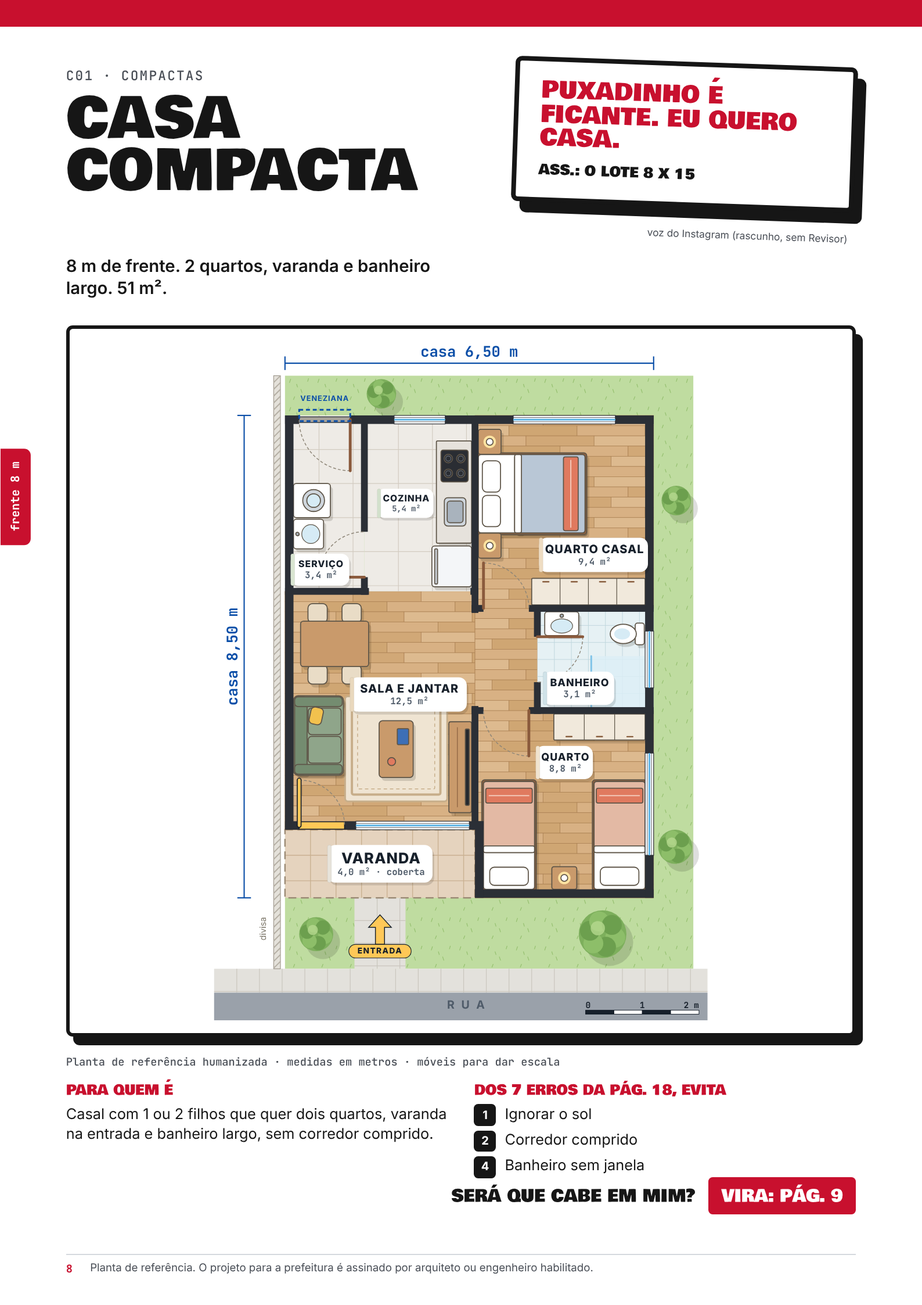
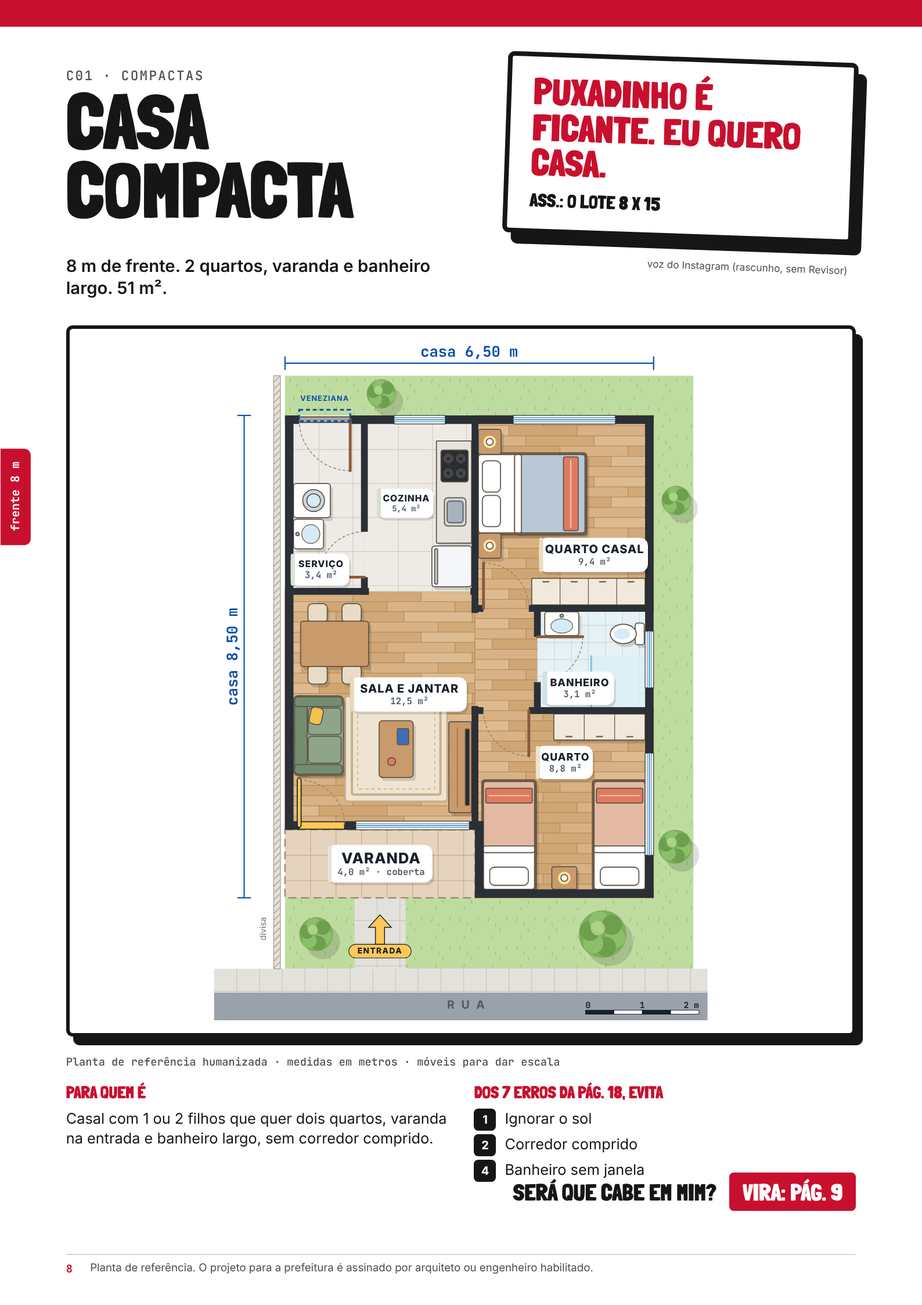
Juri mais estrito (CONSELHO 5b: 2 defeitos, piso 7, 5 fatos, prova a cada 3) e teste da segunda olhada
Claude-Session: https://claude.ai/code/session_01DYdRuF8rs2sLvVqr7VsfNR

Changed region(s): [[0.5246, 0.0312, 0.9565, 0.2182], [0.0617, 0.8103, 0.9257, 0.935], [0.0617, 0.0623, 0.4628, 0.187]]

diff --git a/pedidos/anexos/identidade-2026-11-25.md b/pedidos/anexos/identidade-2026-11-25.md
@@ -1,0 +1,173 @@
+# Identidade visual forte em tudo: diagnóstico, 3 direções e amostras (D50, 25/11/2026)
+
+> **Pedido do dono (25/11), palavra por palavra:** "o pdf está sem identidade alguma, acredito que a ultima coisa importante a se fazer antes do reset é solidificar uma identidade e deixar ela presente em tudo que criamos. Nao estava feio, estava bonito organizado mas sem chamar atencao alguma, a pessoa vai ler aquilo em 2min vai parar. Nossa geracao é a geracao dopamina". Acréscimo (ficha `2026-11-25-1623`): "nunca confie na primeira coisa que pensar".
+> **Ficha:** [`pedidos/2026-11/2026-11-25-1613-identidade-visual-forte-em-tudo-para-a-geracao-dopamina.md`](../2026-11/2026-11-25-1613-identidade-visual-forte-em-tudo-para-a-geracao-dopamina.md).
+> **Quem fez:** Designer, com a skill `design-editorial`. Diretor (MinoAI Frontier) consultado primeiro. **Nada mudou** em `ebook/gerador/`, `ebook/config.json` ou `ebook/saida/`: as amostras saíram de HTML próprio, com os SVG da planta copiados da prévia do nosso gerador. Sem OpenArt, sem foto nova.
+> **Quem decide:** o dono escolhe a direção (ou nenhuma). Mudar cor, letra ou marca é decisão dele; aqui é só opção.
+
+## 0. Plano (skill `design-editorial`)
+
+- **O que foi pedido:** identidade que se reconheça em 1 segundo e esteja em tudo; páginas que não deixem o leitor parar em 2 minutos. **O que não foi pedido:** mudar o texto, o número de páginas, o conteúdo das casas, o preço ou o título. **Suposição:** que "tudo o que criamos" inclui grátis, bônus, Instagram do X1 e WhatsApp, e não o Instagram de IA (está na ficha como suposição).
+- **Cada amostra tem:** 4 a 6 cores com papel, 2 famílias de letra mais a mono de medida que já é do projeto, um elemento memorável só (o sinal), a manchete que é conclusão ("Cabe num lote de 8 x 15 m"), o aviso "Planta de referência" em toda folha (também na capa, que hoje não tem) e a faixa que puxa a próxima página.
+- **Segunda leitura do plano:** a primeira versão das três tinha "fundo escuro + amarelo + título grande", que é igual em qualquer e-book de nicho. Refiz partindo da matéria do assunto: a **trena** (medida), a **placa de terreno** (o lote que espera) e a **porta de entrada amarela** (que já está em toda planta). Cada sinal é um objeto do mundo do comprador, não um enfeite.
+- **Pronto quando:** diagnóstico com prova, 3 direções completas, 6 PNG em 2x, recomendação, ordem de entrada no gerador e as seções "Manual" e "Onde entra" prontas para preencher.
+
+## 1. O que o Diretor (MinoAI Frontier) disse, e o que eu levei
+
+Busquei na biblioteca de aulas (retenção, primeira tela, "por que a pessoa passa para a próxima") e nos ganchos de casa e planta. A biblioteca é de vídeo curto; a passagem para página parada é **leitura minha**, marcada.
+
+| Ideia do Diretor (fonte) | O que eu levei para a página |
+|---|---|
+| "Repetitive elements of your video don't make your video boring [...] these repetitive elements help you brand your videos memorably" (Content Academy SOP, documento sem link) e "retention captions, always branding is very good. So I would probably keep that" ([chamada de 07/12/2025](https://www.loom.com/share/a40a144abf2146b0a8b44305dfc38ead)) | Um **sinal só, repetido em toda folha, no mesmo lugar**. Hoje o sinal (a fita) só existe na capa e na última página. |
+| O vídeo que funciona "captures attention, retains attention, and delivers value" ([aula "5. How Social Media Sales Work"](https://whop.com/joined/contentacademy/content-bootcamp-3pqyjhwaG9gmeC/app/courses/cors_7pWrAMvSU9J9TvKJP0c8tK/lessons/lesn_6XUFgqqwfDJ5yO2BaikZEh/)); "re-hooking loops" ao longo do vídeo ([chamada de 28/07/2026](https://www.loom.com/share/c25e1e65c2cf427193ea2bb1d147b490?t=2174s)); "there's actually seven parts of..." como re-gancho ([chamada de 11/11/2025](https://www.loom.com/share/991211e6490344b283941f4204a7b8df)) | Leitura minha: **cada folha termina puxando a próxima** com a manchete da próxima página em forma de pergunta e o número da página ("Próxima medida: cabe num lote de 8 x 15 m? pág. 9"). É o re-gancho do livro. |
+| "Prioritize clarity over mystery [...] Curiosity should come from withholding the payoff, not from making the premise unclear"; "Make sure it's HIGHLY CONTRASTED and easy to read"; "Do not overload the screen with too much text or 2+ different fonts" ("Mastering Viral Text Hooks", módulo sem link) | A pergunta do pé é clara (diz o assunto) e guarda só a resposta. Duas famílias de letra por direção, mais a mono de medida. Contraste conferido (seção 3). |
+| "contrast is what really makes things like hit with people" e o antes e depois ([chamada de 21/07/2026](https://www.loom.com/share/47d91f75f07d444cb232cdf4b80e75a1?t=2288s)) | Um **número gigante** por página (só do validador) e contraste forte de fundo. |
+| "just make the text bigger [...] the more brain-rotted viewer needs like more things changing on screen to keep them captivated" ([chamada de 21/07/2026](https://www.loom.com/share/47d91f75f07d444cb232cdf4b80e75a1?t=3307s)) | O que tem de ser lido sem dar zoom no celular tem de ter 26 pt ou mais (seção 2, prova). |
+| Cuidado: o que é muito diferente do que a pessoa conhece "can, like, actually scare viewers away" ([chamada de 14/10/2025](https://www.loom.com/share/ab655e212ed342ef8d450c894c89fd89)) | O sinal vem de objeto conhecido (trena, placa, porta), não de estilo estranho. |
+| Ganchos de casa mais perto: [@meshtimes](https://www.instagram.com/p/DHRtCjmSDrM/), "the place i rented vs. the home i'm making" (o vazio que vira casa); [@buildwithbert](https://www.instagram.com/p/DbXB9latjHl/), "PT.35 House update" no topo (série numerada, abertura fixa) | Direção 2 (o lote vazio que procura casa) e o número da casa sempre no mesmo canto. |
+
+## 2. Diagnóstico: por que o leitor larga em 2 minutos
+
+Prévia gerada em 25/11 (`python3 ebook/gerador/livro.py --previa <scratchpad> --duas-partes`): 24 páginas, 3 casas (E03 pág. 4, C01 pág. 8, F01 pág. 12; casas em geral a partir da 16), sem página estourada.
+
+**A prova principal é de tamanho, não de cor.** O e-book é A4 e o público lê no celular ([`MERCADO.md`](../../ebook/referencias/MERCADO.md)). A página A4 inteira numa tela de uns 390 px de largura sai a cerca de metade do tamanho de tela da prévia (794 px). Pelo `livro.css`: texto do miolo 10,2 pt (linha 9) vira uns 6,7 px; "Atenção" 8,6 pt (linha 130) e a ficha 8,4 pt (linha 98) viram uns 5,6 px; só o título da página, 26 pt (linha 15), chega a uns 17 px. **Conta minha, a partir do CSS; conferi olhando as páginas reduzidas a 390 px** (`celular-hoje.png`, no scratchpad): na página da C01 só "Casa Compacta" se lê sem zoom. Ou seja, no primeiro segundo de cada página o leitor só recebe o título, e o título de toda página tem a mesma cara.
+
+| Página | O que se vê | O que falta |
+|---|---|---|
+| 1, capa | A melhor página: fundo azul, planta, fita com 5, 8 e 10 m. | Sem aviso "Planta de referência". A fita aparece aqui e só volta na 24: o sinal não se repete. Números da fita em 13 pt mono: pequenos para o que é o assunto do livro. |
+| 2, Como usar | 3 passos, sumário e uma caixa amarela grande de aviso legal. | A primeira página depois da capa é manual de instrução e aviso. Nenhuma imagem, nenhum número grande, nenhum gancho. É aqui que a curva cai. |
+| 3, Qual casa cabe | 3 lotes lado a lado com a casa dentro. A manchete é pergunta (bom). | As 3 plantas ficam pequenas e as medidas (5, 8, 10 m) em selo de 9 pt. O melhor momento do livro ("a minha é esta") não tem número gigante. |
+| 4, 8, 12, planta da casa | Planta grande, bonita. | As 3 páginas são iguais: mesmo título azul, mesmo selo cinza. Nenhuma surpresa entre uma casa e outra; o "51 m²" está no meio da frase de 14 pt. Nada puxa a página seguinte. |
+| 5, 9, 13, a casa no lote | Ficha "Informação da casa", atenção, vista da rua, 3D, "por que", "para quem", "leve". | 9 blocos numa folha, letra de 8 a 10 pt. A imagem que mais encanta (a casa em 3D) tem uns 85 x 55 mm. No celular é uma parede cinza. |
+| 6, 7, 10, 11, 14, 15, cômodo a cômodo | 7 a 8 cartões de texto com círculo amarelo numerado. | Texto corrido em duas colunas, 9 a 10 pt, sem respiro. Por volta da página 6 o leitor está nos 2 minutos e encontra a página mais densa. |
+| 16 a 23, casas em geral | Como ler, glossário, 7 erros, recuos, parede, ficha do terreno, do e-book à chave. | Mesmo título azul, mesma faixa cinza no topo; 2 fotos ilustrativas só na 22 e na 23. Nenhuma página de número só, nenhuma pergunta que leve à próxima. |
+| 24, Agora é com você | Foto e a fita de volta. | Bom fecho; o sinal voltar só aqui mostra que ele sumiu no meio. |
+
+**Em uma frase:** o livro é organizado (cada coisa no lugar), mas toda folha tem a mesma densidade, o mesmo título azul de 26 pt e nada no pé; não há sinal próprio repetido, número gigante, página de respiro nem convite para a próxima página. O tema existe (azul, amarelo, quadriculado, Bricolage, Inter); a marca não.
+
+### Segunda olhada (diagnóstico)
+
+1. **Primeira ideia:** falta cor e contraste; o azul e o branco são "educados" demais.
+2. **Alternativa:** o problema é de tamanho e ritmo no celular, não de cor: a mesma página com mais cor continuaria ilegível a 390 px.
+3. **O que provaria que a primeira está errada:** se, reduzida ao tamanho do celular, uma página de cor forte ainda mostrasse só o título; e se as páginas mais densas fossem justamente as que já têm mais cor (a 5, com amarelo e verde).
+4. **O que a conferência mostrou:** com as amostras e a prévia lado a lado a 390 px, a planta ocupa uns 60% da página nas 4 versões, e o que diferencia uma da outra é só o que fica acima e abaixo dela (faixa do topo, número, tira do pé). **Mudou o diagnóstico:** a causa número 1 passou a ser tamanho e ritmo; cor vem depois. E mudou o trabalho do reset: a identidade tem de morar no topo, no pé e nas páginas sem planta, porque no miolo da casa quem manda é a planta.
+
+## 3. As 3 direções
+
+Contraste calculado pela fórmula da WCAG (texto pequeno pede 4,5:1; título grande, 3:1).
+
+### Direção 1: A Trena ("a medida manda")
+
+- **Ideia em 1 frase:** toda página abre com uma medida verdadeira marcada na trena, e a trena é a arma do comprador contra o chute.
+- **Sinal próprio:** a **trena amarela com o risco vermelho de lápis** na medida daquela página (na capa, 5, 8 e 10 m na escala certa; na casa, "frente 8 m"). Está no topo de toda folha, sempre no mesmo lugar.
+- **Cores:** obra `#141414` (fundo da capa, texto); trena `#FFC857` (já é nossa); risco `#D0281C` (só o risco e o número da página); azul de projeto `#0B4FA8` (nome da casa, cotas); papel `#FFFFFF`; cinza `#4A4F57` (legenda). Contraste: branco no obra 18,4:1; trena com obra 12,0:1; azul no branco 7,8:1; risco no branco 5,2:1; cinza no branco 8,2:1. (O vermelho que usei primeiro, `#E5322D`, dava 4,4:1 e foi escurecido.)
+- **Letras:** Big Shoulders Display 900 (Google Fonts, OFL, uso comercial livre) nos títulos e números gigantes; Inter no texto; JetBrains Mono nas medidas (as duas já são do projeto).
+- **Ritmo de página:** topo, a trena com o risco; logo abaixo, **um número gigante** do validador (51 m², 8 m, 4% de corredor); meio, a planta ou a figura; pé, a tira preta "**Próxima medida:** [manchete da próxima página]? pág. N". A cada capítulo, uma página de respiro com um número só.
+- **Voz:** curta e de medida: "Meça. Compare. Leve ao engenheiro." Sem piada no PDF; o humor fica no Instagram.
+- **Onde aparece:** **e-book**, trena no topo de toda folha e capa com a trena grande; **grátis** (planta da C01), a mesma capa com só o risco de 8 m e as outras duas medidas apagadas ("estão no e-book"); **bônus**, a trena vira a barra de progresso do checklist (uma fase por trecho da trena); **Instagram**, a trena no pé de todo post, com o risco na medida do lote; o Lote Carente briga com o "dá uns 8" e a trena prova "eu tenho 8,00" (seção 5 do [anexo do Instagram](instagram-identidade-lote-carente-2026-11-24.md)); **WhatsApp**, foto de perfil com a trena e o risco, e o catálogo com o mesmo topo. O texto da mensagem é do Redator, pela skill `oferta-e-whatsapp`.
+
+### Direção 2: A Placa ("o Lote Carente fala")
+
+- **Ideia em 1 frase:** quem conta o e-book é o lote que procura casa, numa placa de terreno pintada à mão; os dados continuam sérios.
+- **Sinal próprio:** a **placa branca de borda preta grossa, letra vermelha, fincada em duas estacas** ("Procura-se casa"). Em cada página, uma plaquinha com a fala do lote.
+- **Cores:** tinta `#161616`; vermelho-placa `#C8102E`; amarelo `#FFC857` (fundo da capa); branco `#FFFFFF`; terra `#C9A56B`; mato `#3E8E41`; azul `#0B4FA8` só na planta. Contraste: tinta no amarelo 11,8:1; vermelho no branco 5,9:1; branco no vermelho 5,9:1; tinta na terra 7,8:1.
+- **Letras:** Londrina Solid 900 (Google Fonts, OFL; desenhada no Brasil, a partir dos cartazes de rua de São Paulo, segundo o [levantamento de 24/11](letras-com-identidade-2026-11-24.md)); Inter; JetBrains Mono.
+- **Ritmo de página:** topo, a plaquinha com a fala do lote (gancho); meio, a planta; pé, a pergunta dele: "Será que cabe em mim? Vira: pág. 9". Entre capítulos, uma placa grande de respiro.
+- **Voz:** a do personagem (seção 1 do anexo do Instagram), **só nas placas**. Nunca no aviso, na ficha, nos números nem no que o engenheiro confere.
+- **Onde aparece:** **e-book**, placa no topo das páginas de casa e de capítulo; **grátis**, a placa da capa diz "Lote de 8 x 15. Procura-se casa"; **bônus**, o checklist vira "o que o lote pede antes do tijolo"; **Instagram**, é a mesma identidade do @lotecarente (posts são placas); **WhatsApp**, foto de perfil com a placa.
+- **Riscos:** humor em produto pago pode tirar seriedade; as falas são rascunho e **não passaram pelo Revisor**; o Redator teria de escrever cerca de 24 falas mais as do bônus.
+
+### Direção 3: A Porta Acesa ("a casa à noite")
+
+- **Ideia em 1 frase:** o e-book é lido no escuro do celular, e a casa acende: a porta de entrada amarela, que já está em toda planta, vira a marca.
+- **Sinal próprio:** a **porta amarela acesa, com a luz caindo no chão** (ícone desenhado por nós). Abre cada página, marca cada item e fecha a página ("Abra a porta: ... pág. 9").
+- **Cores:** noite `#0A1630` (fundo); branco `#F4F7FB` (texto); porta `#FFC857` (número e sinal); névoa `#A9B6CC` (texto de apoio); linha `#6FA8FF` (fio da planta). Contraste: branco na noite 16,7:1; porta na noite 11,7:1; névoa na noite 8,8:1. **O azul de projeto na noite dá 2,3:1**: ele só entra dentro do cartão branco da planta.
+- **Letras:** Bricolage Grotesque 800 (a de hoje; Google Fonts, OFL), Inter, JetBrains Mono. É a que menos muda.
+- **Ritmo de página:** topo, a porta com o código da casa; número gigante amarelo aceso; meio, a planta num cartão branco; pé, "Abra a porta: [próxima manchete]? pág. N". Respiro: página escura só com a planta acesa.
+- **Voz:** calma, de sonho e segurança: a casa que vira endereço.
+- **Onde aparece:** **e-book**, fundo escuro em tudo; **grátis**, a capa escura com a porta da C01 acesa; **bônus**, cada fase do checklist marcada com uma porta que acende; **Instagram**, posts de noite com a porta acesa, e o Lote Carente sonha "ser endereço, luz acesa" (seção 1 do anexo); **WhatsApp**, foto de perfil com a porta acesa.
+- **Riscos:** gasta muita tinta se o comprador imprimir para o engenheiro (pediria uma versão clara para imprimir); a planta precisa do cartão branco; tem menos humor que o Instagram.
+
+## 4. As amostras
+
+Capa e página da planta da Casa Compacta (C01, pág. 8 da prévia), com o texto real da prévia; os SVG da planta são os do nosso gerador, sem mudar porta ou janela. Na direção 3, o brilho é desenhado por cima da entrada, sem mexer na planta. PNG em 2x (1588 x 2246):
+
+- Direção 1: [`ebook/visual/identidade/direcao-1-capa.png`](../../ebook/visual/identidade/direcao-1-capa.png) · [`direcao-1-casa-c01.png`](../../ebook/visual/identidade/direcao-1-casa-c01.png)
+- Direção 2: [`direcao-2-capa.png`](../../ebook/visual/identidade/direcao-2-capa.png) · [`direcao-2-casa-c01.png`](../../ebook/visual/identidade/direcao-2-casa-c01.png)
+- Direção 3: [`direcao-3-capa.png`](../../ebook/visual/identidade/direcao-3-capa.png) · [`direcao-3-casa-c01.png`](../../ebook/visual/identidade/direcao-3-casa-c01.png)
+
+**Texto que não é da prévia (marcado):** a fala "Lote de 8 x 15 / Procura-se casa / Ass.: o Lote" (amostra de voz, escrita por mim, ainda sem o Redator) e "Puxadinho é ficante. Eu quero casa." (bio 1 do anexo do Instagram, rascunho sem Revisor), as duas só na direção 2 e com aviso na própria arte; "A frente do seu lote / meça de uma divisa à outra" e "Puxe a trena: a frente do lote diz a página" (direção 1); as tiras do pé ("Próxima medida", "Vira", "Abra a porta") repetem a manchete real da pág. 9. Nenhum número novo: 51 m², 56 m², 71 m², 2 e 3 quartos, 5, 8 e 10 m e as páginas vêm da prévia.
+
+**As cinco perguntas, depois de olhar cada folha:**
+
+1. **Dá para entender só pela manchete?** Sim nas 6. Na capa, "Qual casa cabe no seu lote?" e as 3 medidas; na casa, nome, número e "8 m de frente".
+2. **Algum vão parece erro?** Não depois do refino: na 1ª versão da direção 1 havia uma faixa vazia entre o cabeçalho e a planta (planta subiu e cresceu) e, na direção 2, as estacas passavam pelo chão (cortadas).
+3. **Algo cortado, sobreposto ou com pouco contraste?** O detector das amostras não achou nada fora da folha. Corrigidos: o "10 m" que quebrava linha na trena da direção 1; o vermelho de 4,4:1; a nota "voz do Instagram" que ficava sob a sombra da placa. **Ainda pequeno no celular, nas 3:** "Para quem é" e a legenda da planta (9,5 e 7 pt), como hoje. A planta e o aviso legal não mudaram de tamanho.
+4. **Todas parecem da mesma família?** Dentro de cada direção, sim: capa e página repetem o sinal. Entre as direções, são bem diferentes.
+5. **A capa funciona sozinha, como cartaz?** A 1 e a 2, sim (trena gigante; placa gigante). A 3 depende do brilho da porta, que no tamanho do celular é discreto.
+
+**Vícios conferidos:** nenhum cartão igual enfileirado nem palavra destacada sem motivo. O "51 m²" aparece duas vezes na página da casa (número gigante e frase do gancho, que é o texto real): no reset, o gancho pode tirar o número. Os selos "C01 · COMPACTAS" com ponto no meio são os de hoje. Tirei um acessório em cada uma (a sombra de texto da direção 2, a moldura da planta escura da direção 1, a lista "56 m² · 2 quartos" da direção 3).
+
+**O que não conferi:** acentos de todas as letras (vi ã, ç, é e ² renderizados nas amostras); a cara das páginas de texto (cômodo a cômodo, glossário) em cada direção; o tamanho do PDF com fundo escuro (direção 3); impressão em papel.
+
+## 5. Recomendação
+
+**Direção 1, A Trena.** Por quê:
+
+1. **O sinal é o produto.** O comprador compra "a casa que cabe na minha medida"; a trena com o risco diz isso em 1 segundo, sem texto. Já é decisão do dono na capa ("capa com fita métrica"): a recomendação só a leva para toda folha.
+2. **Conversa com o Lote Carente sem pôr piada no PDF:** a briga do personagem é com o chute ("dá uns 8" / "eu tenho 8,00"), e a trena é a prova. No Instagram o lote fala; no e-book a trena mede.
+3. **O número gigante é a dose de dopamina honesta:** sempre do validador, nunca inventado, e é o que se lê no celular sem zoom.
+4. **É o reset mais braçal:** troca de tokens, uma fonte a mais e três peças (trena de topo, número gigante, tira do pé) no `livro.css` e no `livro.py`. Não muda texto de casa.
+
+### Segunda olhada (recomendação)
+
+1. **Primeira ideia:** Direção 1, a Trena.
+2. **Alternativa:** Direção 2, a Placa: é a que mais combina com o Instagram que o dono escolheu ("lote carente foi a melhor opcao") e com o que ele disse em 24/11, "coisas absurdas prendem a atenção".
+3. **O que provaria que a primeira está errada:** se, no tamanho do celular, a direção 1 parecesse "aviso de obra" genérico (preto e amarelo de canteiro), ou se o critério do absurdo de 24/11 valesse também para o PDF, e não só para o Instagram.
+4. **O que a conferência mostrou:** as 6 amostras lado a lado a 390 px de largura (`celular.png`, no scratchpad). O "51 m²" e a trena da direção 1 se leem de cara; o preto e amarelo chega perto do cliché de obra, e o que segura é o risco vermelho e a escala de verdade. A direção 2 é a única que faz sorrir, mas na 1ª versão a fala da placa **sumia no celular**. **Mudou:** troquei a letra da direção 2 para a Londrina Solid (brasileira, do levantamento de 24/11) e aumentei a placa em cerca de 50%; a recomendação continua a 1, agora com uma pergunta ao dono (abaixo) em vez de decidir sozinho o humor no PDF.
+
+## 6. Ordem de entrada no gerador (para o reset ser braçal)
+
+Vale para a direção 1; as outras mudam os valores, não a ordem. Linhas lidas em 25/11.
+
+1. `ebook/gerador/livro.css`, linha 1 (`@import`): somar `Big+Shoulders+Display:wght@800;900`.
+2. `livro.css`, linhas 4 a 6 (`:root`): somar `--obra: #141414`, `--risco: #D0281C`, `--num: "Big Shoulders Display"`; `--cinza` passa a `#4A4F57`.
+3. `livro.css`, linha 15 (`h2`): letra nova, caixa alta, 36 a 40 pt.
+4. `livro.css`, linhas 34 a 48 (capa, `.capa-titulo`, `.fita-box`, `.marca`): fundo obra, título 84 pt, trena de 62 mm, marcas de 42 pt alinhadas no risco; linha 173 (`.fita-box.pequena`) igual. E `livro.py`, linha 988 (`capa_fundo()`): sai o papel azul de foto, entra o fundo obra.
+5. `ebook/gerador/livro.py`, linhas 875 a 902 (`svg_fita`): escala proporcional (0 a 13 m), riscos vermelhos, rótulo "A frente do seu lote"; mais uma variante fina, a trena de topo, para toda folha.
+6. `livro.py`, linha 1038 (`L.pagina`): parâmetro novo para a trena de topo (com o risco em `lote_frente(p)`, linha 1082) e para a tira do pé "Próxima medida", que usa a manchete da página seguinte (as 2 passadas da linha 2720 já sabem os números).
+7. `livro.py`, linhas 2588 a 2600 (`dupla`, página da planta) e `livro.css`, linhas 83 a 90 (`.cab`, `.nome`, `.gancho`, `.planta-grande`): número gigante ao lado do nome (a área fechada que a ficha já usa).
+8. `livro.css`, linhas 28, 31 e 32 (`.rodape`, `.orelha`): número da página no risco, orelha com borda obra; linha 179 (`.orelha.geral`) igual.
+9. Bônus: `livro.css`, linha 325 em diante (`.bn`), e `ebook/gerador/bonus.py`, linha 155 (cores `AZ`, `TI`, `CL`, `AM`): trena como barra de progresso.
+10. Grátis: `livro.py`, linha 2650 (`montar_gratis`): a capa com só o risco de 8 m.
+11. Instagram: `ferramentas/imagens2d.py`, linhas 37 e 40 (fundo `.azul`, `h1` azul): a trena no pé de todo post.
+12. Depois de aplicar: `ebook/referencias/VISUAL.md`, seção 2, e o "Identidade fixa" da skill `design-editorial` (Designer); prévia, as cinco perguntas e `ferramentas/checar.py`.
+
+## 7. Manual (preencher depois da escolha do dono)
+
+- **Direção escolhida:** (a preencher)
+- **Tokens:** cores com hex e papel; letras e tamanhos (capa, título, número gigante, texto, legenda, medida): (a preencher)
+- **O sinal:** medidas, posição fixa, distância mínima, o que nunca encosta nele: (a preencher)
+- **Ritmo de página:** topo, número, meio, pé; quando entra a página de respiro: (a preencher)
+- **Voz:** (a preencher, com o Redator)
+- **Faça:** (a preencher)
+- **Não faça:** (a preencher; já valem: o aviso "Planta de referência" e o selo "Imagem ilustrativa" nunca saem; número só do validador; nenhuma fonte, tema ou arte de terceiros)
+
+## 8. Onde entra, arquivo por arquivo (preencher depois da escolha do dono)
+
+| Onde | Arquivo e linha | O que muda | Feito |
+|---|---|---|---|
+| E-book (PDF) | (a preencher a partir da seção 6) | | |
+| Planta grátis | | | |
+| Bônus | | | |
+| Instagram do X1 | | | |
+| WhatsApp (perfil e catálogo) | | | |
+| Animação e vídeo (Editor de vídeo, depois do e-book) | | | |
+
+## 9. O que só o dono decide
+
+1. **Qual direção:** 1 (Trena), 2 (Placa), 3 (Porta acesa) ou nenhuma.
+2. **O humor do Lote Carente entra no PDF?** (a) não, só no Instagram; (b) sim, uma placa com a fala do lote por página de casa, sobre a direção escolhida (o Redator escreve e o Revisor confere); (c) sim, o livro todo na voz dele (direção 2).
+3. **A letra nova:** Big Shoulders Display (direção 1), Londrina Solid (direção 2) ou continuar na Bricolage (direção 3).
+4. **Capa escura ou clara?** A recomendada é escura; quem imprime para o engenheiro gasta mais tinta na capa (no miolo, a direção 1 é branca).
+5. **"Tudo o que criamos" inclui o WhatsApp e o Instagram de IA?** (suposição da ficha: inclui WhatsApp, não inclui o Instagram de IA).

diff --git a/CONSELHO.md b/CONSELHO.md
@@ -52,11 +52,11 @@ Cada membro responde em **uma linha**, sempre no mesmo formato:
 
 Para decisão grande (custa dinheiro, vai ao público ou muda o sistema inteiro) ou quando o dono pedir. Método de Andrej Karpathy (`github.com/karpathy/llm-council`; o repositório não tem licença, então entra só o método, nada do código). Ficha de origem: `pedidos/2026-11/2026-11-23-0156-adicionar-o-llm-council-karpathy-e-pedir-a-opiniao-dele-sobr.md`.
 0. **Régua com âncoras** (dono, 23/11/2026, rodada 7): toda rodada leva a mesma régua com o que vale 3, 6 e 9 de 10, cada um com um exemplo do projeto. Sem régua escrita no pedido, a rodada não começa.
-1. **Opiniões separadas, cada uma por um ângulo:** 3 modelos (Haiku, Sonnet, Opus ou Fable) opinam sem ver os outros, com nota de 0 a 10. Cada jurado recebe um ângulo diferente (comprador, dinheiro, risco), não a mesma pergunta. **Toda crítica cita arquivo e linha**; crítica sem isso não conta.
+1. **Opiniões separadas, cada uma por um ângulo:** 3 modelos (Haiku, Sonnet, Opus ou Fable) opinam sem ver os outros, com nota de 0 a 10. Cada jurado recebe um ângulo diferente (comprador, dinheiro, risco), não a mesma pergunta. **Toda crítica cita arquivo e linha**; crítica sem isso não conta. **Defeito obrigatório** (dono, 25/11/2026, ficha `2026-11-25-1625`): cada jurado aponta pelo menos 2 defeitos, com arquivo e linha, antes de dar a nota; "está ótimo" sem prova não conta.
 2. **Revisão anônima:** cada um lê as outras opiniões sem saber de quem são e as ordena.
-3. **Presidente:** o 4º modelo, que **não opinou** nesta rodada (rodízio), **confere no repositório pelo menos 3 fatos** que os jurados afirmam (diz quais se confirmaram e quais não), escreve a síntese e o que corrigir já.
-4. **No máximo 2 rodadas** (dono, 23/11/2026): reescreve-se a proposta uma vez; se a nota não chegar a 8,5, a decisão vai ao dono com as duas notas. Antes, o laço ia até 6 rodadas e em 23/11 caiu três vezes seguidas (6,5, 6,3, 6,0).
-5. **Calibrar:** a cada 5 rodadas, uma prova com erro plantado (`pedidos/PROVAS.md`); e a nota do júri é comparada depois com o resultado real (custo por venda, `PAINEL.md` seção 4). Júri que dá nota alta para o que não vende perde peso.
+3. **Presidente:** o 4º modelo, que **não opinou** nesta rodada (rodízio), **confere no repositório pelo menos 5 fatos** que os jurados afirmam (diz quais se confirmaram e quais não; dono, 25/11/2026: eram 3). **Jurado que afirmou um fato falso perde a nota daquela rodada**, escreve a síntese e o que corrigir já.
+4. **No máximo 2 rodadas** (dono, 23/11/2026): reescreve-se a proposta uma vez; se a nota não chegar a 8,5, a decisão vai ao dono com as duas notas. **Piso por jurado** (dono, 25/11/2026): se qualquer jurado der menos de 7, a peça não passa, mesmo com a média em 8,5 ou mais. Antes, o laço ia até 6 rodadas e em 23/11 caiu três vezes seguidas (6,5, 6,3, 6,0).
+5. **Calibrar:** a cada 3 rodadas (dono, 25/11/2026: eram 5), uma prova com erro plantado (`pedidos/PROVAS.md`); **o jurado que não pegar o erro perde peso** nas 3 rodadas seguintes; e a nota do júri é comparada depois com o resultado real (custo por venda, `PAINEL.md` seção 4). Júri que dá nota alta para o que não vende perde peso.
 
 **Custo:** caro (o laço de 23/11, rodadas 3 a 5, gastou cerca de 2,95 milhões de tokens de subagentes): só com o motivo escrito na ficha.
 

diff --git a/contexto/QUADRO.md b/contexto/QUADRO.md
@@ -2,6 +2,12 @@
 
 > **Todo agente e toda conversa lê este quadro antes de trabalhar** (regra do dono, 22/11/2026: "depois de cada pedido, SEMPRE informe todo mundo do que está acontecendo, crie um contexto a partir disso e alimente todos"). Quem atende o pedido escreve aqui, no topo, e apaga o mais antigo: ficam os 5 últimos. O histórico inteiro está em [`CONTEXTO-HISTORICO.md`](../CONTEXTO-HISTORICO.md).
 
+## 25/11 · Júri mais estrito e a segunda olhada (fichas `2026-11-25-1625` e `2026-11-25-1623`)
+
+- **O dono pediu:** "Queria testar algo no nosso sistema também, 'nunca confie na primeira coisa que pensar' o que acha?" ("sim" ao teste); "Também gostaria que o juri fosse mais stricit é possivel?" ("sim, gostei das regras").
+- **O que mudou:** `CONSELHO.md` 5b: cada jurado aponta 2 defeitos com arquivo e linha antes da nota; qualquer nota abaixo de 7 reprova; o presidente confere 5 fatos e quem afirmou fato falso perde a nota; prova com erro plantado a cada 3 rodadas e quem não pegar perde peso. Máximo de 2 rodadas mantido. **Teste de 3 fichas da segunda olhada:** antes de número, frase ao público, comando que grava ou apaga, ou gasto, a ficha tem "Segunda olhada" (primeira ideia, alternativa, o que provaria o erro, o que a conferência mostrou).
+- **Todos:** escrevam a segunda olhada nesses 4 casos. **Jurados:** sem 2 defeitos com prova, a nota não conta. **Supervisor:** confere a contagem da segunda olhada na próxima auditoria. **Designer:** a D50 é a primeira ficha do teste.
+
 ## 25/11 · Identidade visual forte em tudo, antes do reset (ficha `2026-11-25-1613`)
 
 - **O dono pediu:** "o pdf está sem identidade alguma, acredito que a ultima coisa importante a se fazer antes do reset é solidificar uma identidade e deixar ela presente em tudo que criamos. Nao estava feio, estava bonito organizado mas sem chamar atencao alguma, a pessoa vai ler aquilo em 2min vai parar. Nossa geracao é a geracao dopamina".
@@ -25,9 +31,3 @@
 - **O dono pediu:** "O redator sempre com a ajuda do planejador, quero todo mundo planejando as coisas muito bem".
 - **O que mudou:** todo texto do Redator começa por um plano (para quem, o que precisa conter, fonte de cada número, o que depende do dono, "pronto quando"), montado ou conferido pelo Planejador; texto sem plano não vai ao Revisor. Convivência, linha 17.
 - **Todos:** plano curto antes de fazer; trabalho com mais de 3 passos passa pelo Planejador. **Redator:** plano no começo do anexo. **Planejador:** monta ou confere o plano de cada texto. **Maestro:** manda o plano junto do pedido ao Redator.
-
-## 24/11 · Terminar o e-book, um por um (ficha `2026-11-24-2050`)
-
-- **O dono pediu:** "Quero terminar o ebook o que falta. Falta uma separacao exata do que estamos trabalhando e vamos implementar pro cliente, temos que terminar tudo 1 por 1 comecando pelo E book".
-- **O que mudou:** existe a separação em `pedidos/anexos/o-que-vai-ao-cliente-2026-11-24.md`: o que o cliente recebe, o que é só ferramenta nossa, e os 10 passos que faltam para o e-book.
-- **Todos:** só se trabalha nos 10 passos do e-book, na ordem, um por vez. Sistema, Instagram, vitrines e vídeo esperam. **Planejador:** a ordem do topo do plano segue essa tabela.

diff --git a/contexto/RESUMO.md b/contexto/RESUMO.md
@@ -47,9 +47,9 @@ Tamanho: 442 palavras.
 
 Todo agente e toda conversa lê este quadro antes de trabalhar (regra do dono, 22/11/2026: "depois de cada pedido, SEMPRE informe todo mundo do que está acontecendo, crie um contexto a partir disso e alimente todos"). Quem atende o pedido escreve aqui, no topo, e apaga o mais antigo: ficam os 5…
 
-Seções: 25/11 · Identidade visual forte em tudo, antes do reset (ficha `2026-11-25-1613`); 25/11 · Tudo pronto para o reset; Instagram de IA com repositório próprio (ficha `2026-11-25-1612`); 24/11 · O e-book mostra a dor e dá a solução (ficha `2026-11-24-2130`); 24/11 · Redator sempre com o Planejador; todos planejam antes de fazer (ficha `2026-11-24-2119`); 24/11 · Terminar o e-book, um por um (ficha `2026-11-24-2050`).
+Seções: 25/11 · Júri mais estrito e a segunda olhada (fichas `2026-11-25-1625` e `2026-11-25-1623`); 25/11 · Identidade visual forte em tudo, antes do reset (ficha `2026-11-25-1613`); 25/11 · Tudo pronto para o reset; Instagram de IA com repositório próprio (ficha `2026-11-25-1612`); 24/11 · O e-book mostra a dor e dá a solução (ficha `2026-11-24-2130`); 24/11 · Redator sempre com o Planejador; todos planejam antes de fazer (ficha `2026-11-24-2119`).
 
-Tamanho: 746 palavras.
+Tamanho: 824 palavras.
 
 ### [Contexto do Ajudante](ajudante.md)
 

diff --git a/RESUMO-RAIZ.md b/RESUMO-RAIZ.md
@@ -33,7 +33,7 @@ Lido por toda sessão via `CLAUDE.md`. Para rodar: a skill `conselho` (`/conselh
 
 Seções: 1. Por que existe; 2. Os membros; 3. Como uma opinião é dada; 4. Como se decide; 5. Conselho de bolso x conselho completo; 5b. Modo júri (método do llm-council, 23/11/2026); 6. Skill ou agente novo: o roteiro de entrada; 6b. Ficha do pedido e ciclo de reconferência (regra do dono, 22/11/2026); 7. Registro de decisões do Conselho.
 
-Tamanho: 3021 palavras.
+Tamanho: 3105 palavras.
 
 ### [Histórico completo: a linha do tempo dos pedidos do dono](CONTEXTO-HISTORICO.md)
 

diff --git a/pedidos/2026-11/2026-11-25-1625-juri-mais-estrito.md b/pedidos/2026-11/2026-11-25-1625-juri-mais-estrito.md
@@ -4,6 +4,8 @@
 
 **Prompt (palavra por palavra):** Também gostaria que o juri fosse mais stricit é possivel?
 
+*Recado de 25/11 16:29:* sim, gostei das regras voce ta ficando bom!
+
 **O que ele pediu, parte por parte:** Que o júri seja mais estrito, e se isso é possível.
 
 **Por que ele pediu, ou o que quer descobrir:** Junto com "nunca confie na primeira coisa que pensar" (ficha 1623): menos aprovação fácil, menos erro que passa.
